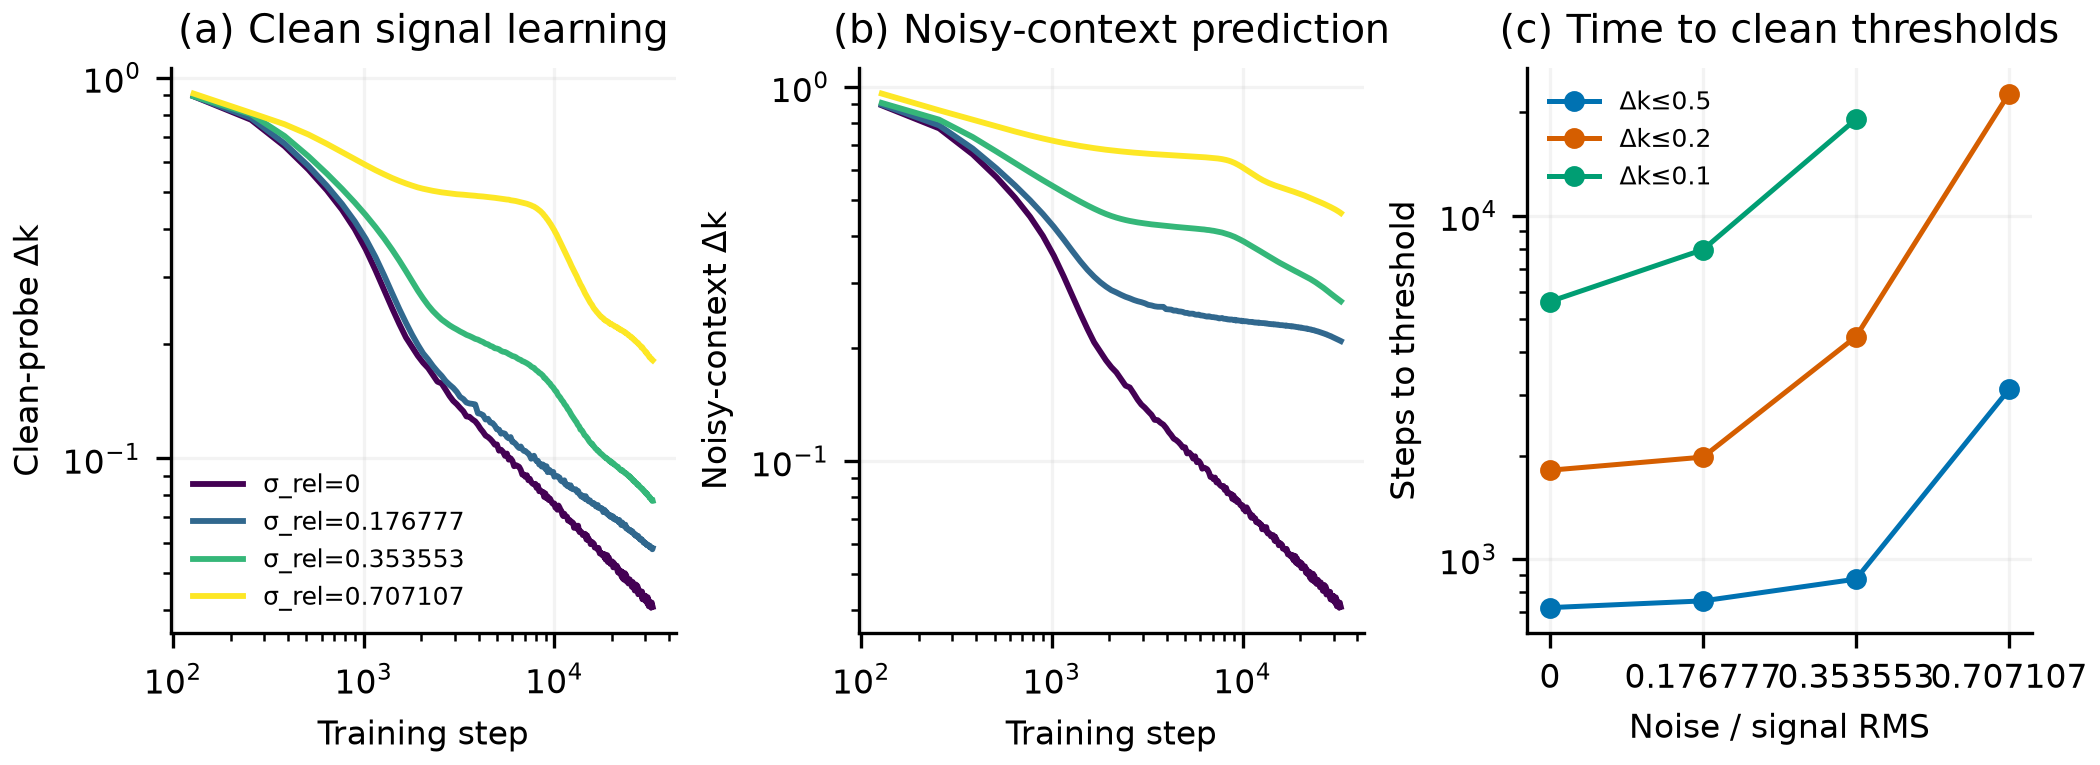
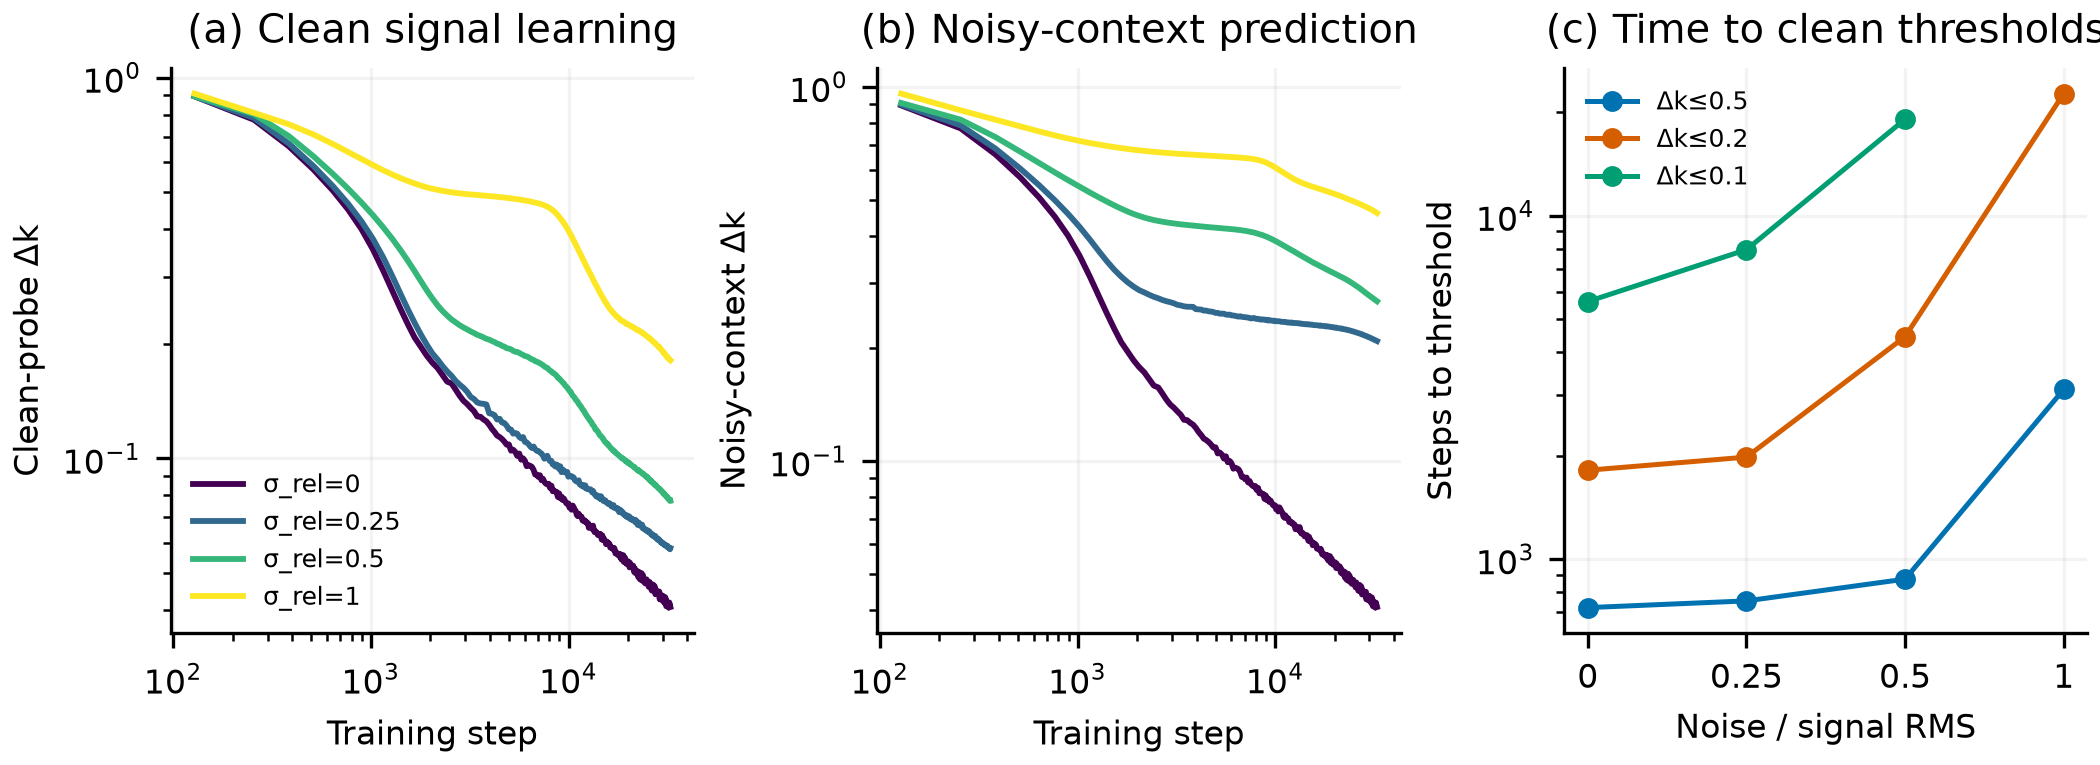
Clarify power and SNR schedule claims

diff --git a/experiments/1_snr_schedule/scripts/plot.py b/experiments/1_snr_schedule/scripts/plot.py
@@ -1,5 +1,6 @@
 import argparse
 import json
+import math
 from pathlib import Path
 
 import matplotlib.pyplot as plt
@@ -71,7 +72,7 @@ def plot_snr(data, output):
     for color, sigma in zip(colors, sigmas, strict=True):
         clean = [curve(grouped[sigma], "clean_dk", step) for step in steps]
         noisy = [curve(grouped[sigma], "noisy_dk", step) for step in steps]
-        label = f"σ_rel={sigma:g}"
+        label = f"σ_rel={sigma / math.sqrt(0.5):g}"
         axes[0].plot(steps, clean, color=color, lw=1.4, label=label)
         axes[1].plot(steps, noisy, color=color, lw=1.4, label=label)
 
@@ -112,7 +113,7 @@ def plot_snr(data, output):
     axes[2].set(
         yscale="log",
         xticks=positions,
-        xticklabels=[f"{sigma:g}" for sigma in sigmas],
+        xticklabels=[f"{sigma / math.sqrt(0.5):g}" for sigma in sigmas],
         xlabel="Noise / signal RMS",
         ylabel="Steps to threshold",
         title="(c) Time to clean thresholds",
@@ -127,7 +128,7 @@ def plot_snr(data, output):
             row for arm, row in zip(arms, rows, strict=True) if arm["sigma"] == sigma
         ]
         print(
-            f"sigma_rel={sigma:g} "
+            f"sigma_rel={sigma / math.sqrt(0.5):g} "
             f"clean_r={mean(mean(row['clean_r']) for row in selected):.3f} "
             f"clean_dk={mean(mean(row['clean_dk']) for row in selected):.3f} "
             f"noisy_dk={mean(mean(row['noisy_dk']) for row in selected):.3f}"

diff --git a/experiments/1_snr_schedule/README.md b/experiments/1_snr_schedule/README.md
@@ -16,8 +16,9 @@ Noise is never synthesized from a window's own FFT coefficients.
 
 `snr` suite: all tones have equal power. Sweep noise amplitude
 `sigma_rel ∈ {0, 0.25, 0.5, 1.0}`, where `sigma_rel` is noise RMS divided by signal
-RMS. Carrier frequency and signal power are constant, so every band has the same
-nominal SNR.
+RMS. The JSON stores absolute `sigma`; the figure converts it back to `sigma_rel`.
+Carrier frequency and signal power are constant, so every band has the same nominal
+SNR.
 
 `assignment` suite: hold the same power multiset and noise variance, but mirror the
 power-frequency assignment.
@@ -51,17 +52,26 @@ thresholds; thresholds that are never reached are omitted.*
 | 0 | 0.995 | 0.041 | 0.041 | 723 | 1,815 | 5,620 |
 | 0.25 | 0.965 | 0.058 | 0.209 | 756 | 1,981 | 7,956 |
 | 0.5 | 0.950 | 0.077 | 0.267 | 875 | 4,440 | 19,072 |
-| 1.0 | 0.844 | 0.181 | 0.460 | 3,119 | 22,645 (73/96) | 0/96 |
+| 1.0 | 0.844 | 0.181 | 0.460 | 3,119 | 22,645 (73/96) | not reached |
 
-- Stronger noise delays every clean-probe threshold and raises final clean
-  attenuation.
+- Stronger noise delays the `Δk≤0.5` and `Δk≤0.2` thresholds and raises final clean
+  attenuation; the `Δk≤0.1` threshold is not reached at `σ_rel=1` within 32k.
+- The `Δk≤0.1` column is **not** a schedule for `σ_rel=1`: at 32k the mean clean `Δk`
+  is 0.181 (per-band min 0.134), so the threshold lies below every band's current
+  error. The clean `r` is still rising at 32k (`0.815` at 24k → `0.845` at 32k), so
+  this is a budget-limited measurement, not a demonstrated fixed point.
+- In the linear readout picture, context noise alone would *speed* convergence to a
+  shrunk optimum (Hessian `P+σ²`). The observed `t(Δk≤0.5)` is 4.3× slower at
+  `σ_rel=1`, so the net slowdown is not explained by ridge alone; target-noise
+  gradient variance and nonlinear optimization dominate.
 - The training loss also contains irreducible target noise, so raw loss is not a
   convergence measure; all schedule claims use clean-probe coefficients.
 - This is a fixed 32k-step result. The clean probe has no observation noise, so its
   optimal prediction is `r=1`; the observed attenuation is a learned prior or
   finite-budget effect, not an information-theoretic floor.
-- Not yet implemented: a scale-matched noiseless arm to separate noise from increased
-  input RMS.
+- A context/target noise 2×2 and a scale-matched noiseless control are mechanism
+  diagnostics; they are deferred to the ready version. The artificial context-only and
+  target-only arms are not realistic data-generating processes.
 
 ### Red versus anti-red: frequency control
 
@@ -85,6 +95,10 @@ Level 0 is censored at `Δk≤0.5` in both assignments. Matched-level absolute d
 are at most 0.017 in final `Δk`. After subtracting level means, the frequency residual
 has Spearman `0.036` with final error. Reversing which frequencies are loud does not
 change the learning schedule.
+
+Within this suite, power level and in-band SNR are collinear: the noise has fixed
+absolute `σ`, so louder bands also have higher SNR. The red/anti-red control isolates
+frequency, not power versus SNR; power alone is handled by the power experiment.
 
 ## How to run
 

diff --git a/.agents/PLAN.md b/.agents/PLAN.md
@@ -52,12 +52,16 @@ the learning curves have plateaued.
 ### Group 1 details
 
 - Equal-power SNR dose: clean-probe attenuation and time-to-threshold both worsen with
-  noise.
+  noise. The `Δk≤0.1` cell at `σ_rel=1` is a floor/budget artifact, not a schedule:
+  the 32k mean clean `Δk` is 0.181 and the curve is still moving. The linear ridge
+  picture predicts faster convergence to a lower floor, so the observed 4.3× slowdown
+  is not ridge alone; target-noise gradient variance is the likely dominant channel.
 - Red vs anti-red assignment swaps which carrier frequencies are loud while holding the
   power multiset and noise fixed. Matched levels differ by at most `0.017` in final
   `Δk`; frequency residual correlates `0.036` with error.
-- Missing control: a scale-matched noiseless arm is still needed to separate noise from
-  the larger input RMS at high noise.
+- The context/target noise 2×2 and a scale-matched control are mechanism diagnostics;
+  they are deferred to the ready version. The artificial context-only/target-only arms
+  are not realistic data-generating processes; the main table uses whole-series noise.
 - Clean-probe attenuation is a learned prior or finite-budget effect, not an
   information-theoretic floor: a clean input determines the tone.
 
@@ -94,8 +98,9 @@ the learning curves have plateaued.
    separation; do not overclaim an ordering between `m=1` and `m=2`.
 2. Build the group-2 blog figure around the learning curves and the `m=0` vs `m=3`
    separation. Note that the earlier non-monotone result was a locking artifact.
-3. Add the scale-matched noiseless control for SNR before making a strong causal noise
-   claim.
+3. For SNR, report the attainable floor and a relative time-to-threshold, not the
+   absolute `Δk≤0.1` cell. The context/target 2×2 and scale-matched control are deferred
+   to the ready version.
 4. Re-run group 0 with early checkpoints for an unbiased scaling exponent.
 5. Convert the real-data power spectrum plus noise floor into an illustrative step
    estimate. Keep it explicitly an extrapolation from synthetic controls.

diff --git a/experiments/0_power_schedule/README.md b/experiments/0_power_schedule/README.md
@@ -37,6 +37,10 @@ strongest `128/1020`.
 - Checkpoints: every 128 steps.
 - Readout: clean probes; per-band `r`, `Δk`, and held-out variance explained.
 
+The simplest baseline is a linear readout trained with MSE. A band's Hessian
+eigenvalue scales with its power `P`, so its relative error decays as `exp(-ηPt)` and
+the time to a fixed `Δk` scales as `1/P`; this predicts `γ=1`.
+
 The scaling fit is
 
 \[
@@ -70,14 +74,16 @@ assigned power.*
 - Final `Δk` is strictly monotone in level means; Spearman with log power is
   `−0.992`. Spearman with carrier frequency is `−0.090`.
 - The `Δk≤0.5` fit uses all eight levels: `γ=1.083`, `R²=0.999`. Per-run fits give
-  `γ = 1.09, 1.10, 1.06`.
-- Stricter targets: `Δk≤0.2` reaches 82/96 bands over seven levels, `γ=1.022`,
-  `R²=0.997`; `Δk≤0.1` reaches 59/96 bands over five levels, `γ=0.935`,
-  `R²=0.999`.
+  `γ = 1.09, 1.10, 1.06`. The stricter targets give `γ=1.022` (`Δk≤0.2`) and
+  `γ=0.935` (`Δk≤0.1`), bracketing the linear-readout prediction `γ=1`.
+- An earlier matched-filter run reported `γ≈0.55`; that fit was distorted by
+  right-censoring the fastest bands at the checkpoint floor. Uncensored fits give
+  `γ≈1.1`, and the current joint-inversion/base-2-ladder measurement is consistent
+  with that correction.
 - Held-out variance explained is at least 0.997.
 - The fastest level reaches the first checkpoint (128 steps), so its time is
-  right-censored at the resolution floor. The exponent is therefore approximate and
-  should be refined with earlier checkpoints before publication.
+  right-censored at the resolution floor. Excluding level 7 changes `γ` from 1.083 to
+  1.078, so the bias is small; report both.
 
 ## How to run
 

diff --git a/docs/README.md b/docs/README.md
@@ -116,10 +116,11 @@ Those are different physical variables and should be measured separately.
 
 1. A dense-spectrum power ladder with fixed total power and randomized
    frequency-power assignment. Final error follows assigned power almost perfectly and
-   has no meaningful relationship with carrier frequency.
-2. A white-noise dose response plus a red/anti-red assignment control. Noise slows the
-   schedule; swapping which frequencies are loud leaves matched power levels almost
-   unchanged.
+   has no meaningful relationship with carrier frequency; time-to-threshold scales as
+   `P^-1.08`, close to the linear-readout `P^-1` baseline.
+2. A white-noise dose response plus a red/anti-red assignment control. Noise lowers the
+   attainable clean-probe floor and slows the schedule; these are distinct quantities.
+   Swapping which frequencies are loud leaves matched power levels almost unchanged.
 3. A separate map-complexity experiment with fixed carriers, fixed total power, and a
    single scalar phase state per carrier. Nonlinear maps are slower than a pure
    rotation, and the slowdown is largest at the highest order in the no-lock regime:
